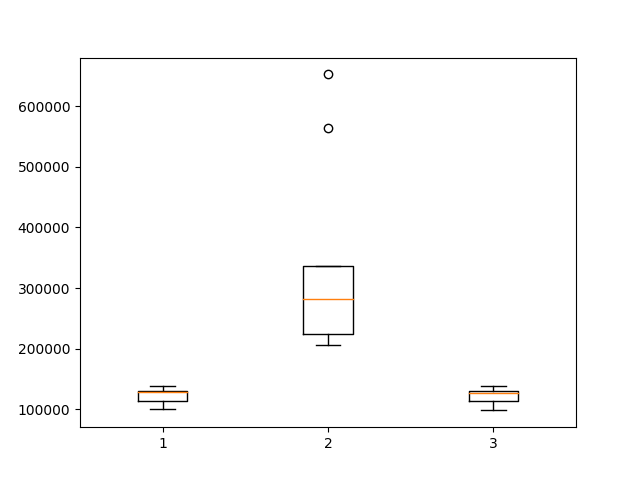
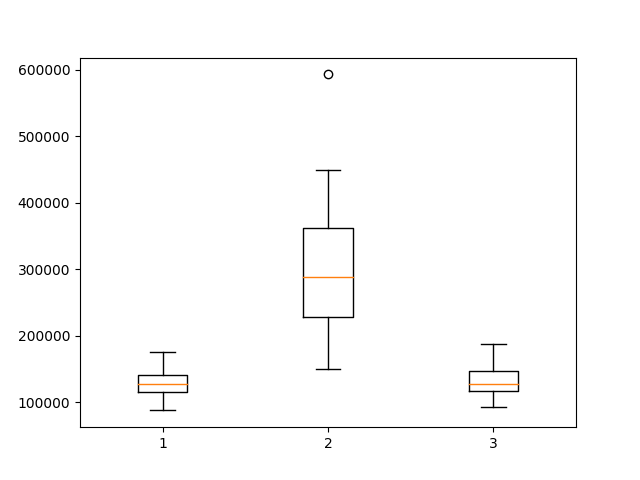
trying 100 reps

diff --git a/script_experiment_1.py b/script_experiment_1.py
@@ -50,10 +50,11 @@ listaDatos = [[],[],[]]
 listaMilis = [[],[],[]]
 listaExpanded= [[],[],[]]
 
+REPS = 10
 
-for rep in range(10):
-    program[5] = str(seeds_c[rep])
-    program[6] = str(seeds_s[rep])
+for rep in range(REPS):
+    program[5] = str(rep*10)
+    program[6] = str(rep*20)
     for op in range(1,4):
         program[-2] = str(op)
         output = subprocess.Popen(program, stdout=subprocess.PIPE).communicate()[0]
@@ -77,4 +78,7 @@ plt.savefig('./experiment1/coste.png')
 plt.clf()
 plt.boxplot(listaDatos)
 plt.savefig('./experiment1/datos.png')
+plt.clf()
+plt.boxplot(listaMilis)
+plt.savefig('./experiment1/tiempo.png')
 plt.clf()

diff --git a/script_experiment_2.py b/script_experiment_2.py
@@ -78,3 +78,6 @@ plt.clf()
 plt.boxplot(listaDatos)
 plt.savefig('./experiment2/datos.png')
 plt.clf()
+plt.boxplot(listaMilis)
+plt.savefig('./experiment2/tiempo.png')
+plt.clf()
